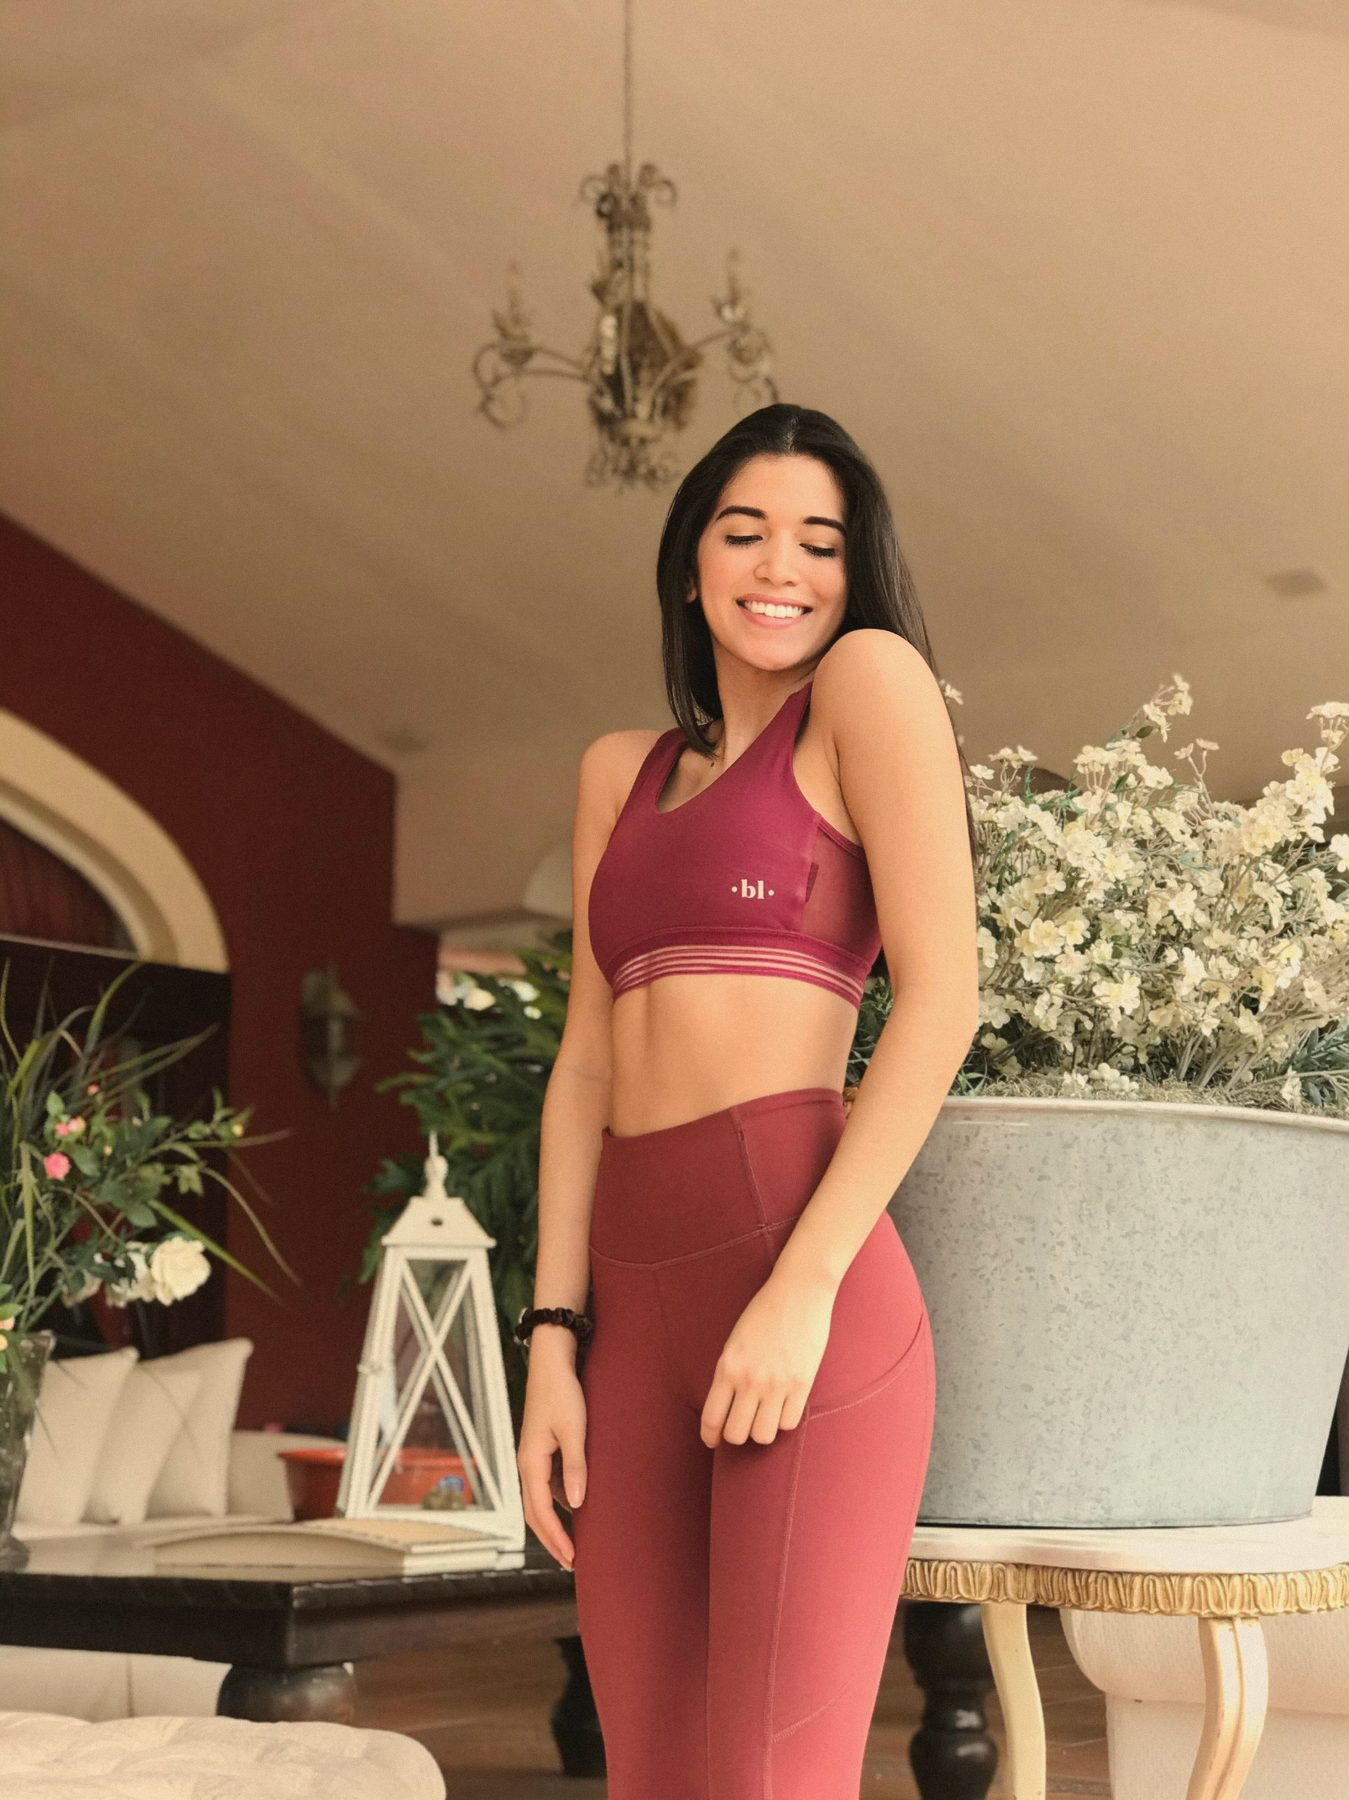
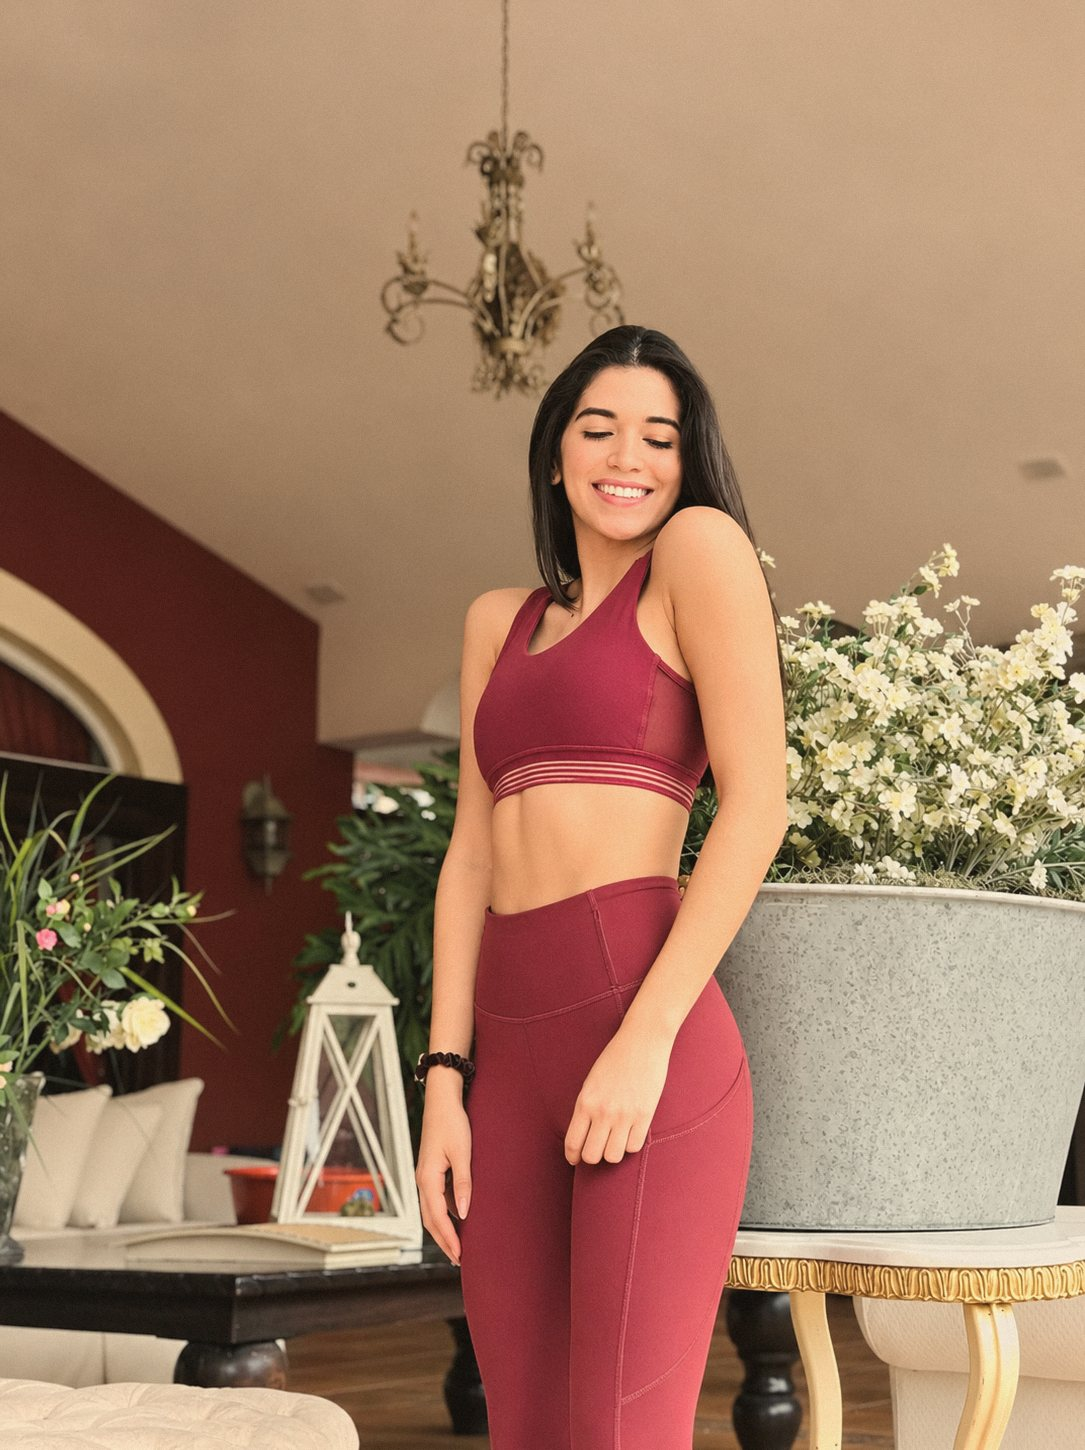
Swap homepage hero for retouched photo of Mafer
Claude-Session: https://claude.ai/code/session_01Q68BjWFDyDSHyHZgopsCK4

diff --git a/index.html b/index.html
@@ -24,7 +24,7 @@
 <header class="site-header" id="top"><div class="bar wrap"><a class="brand" href="#top" aria-label="AMURU, inicio"><img src="fotos/amuru-symbol.png" alt=""/><span>AMURU</span></a><nav class="nav" aria-label="Navegación principal"><a href="collection.html">Colección</a><a class="soc" href="https://www.tiktok.com/@mafervasquezz" target="_blank" rel="noopener noreferrer" aria-label="TikTok"><svg class="ico" viewBox="0 0 24 24" aria-hidden="true"><path d="M14.2 3.5v10.9a3.6 3.6 0 1 1-3.6-3.6" fill="none" stroke="currentColor" stroke-width="1.7" stroke-linecap="round" stroke-linejoin="round"/><path d="M14.2 3.5c.4 2.6 2.3 4.4 5 4.6" fill="none" stroke="currentColor" stroke-width="1.7" stroke-linecap="round"/></svg><span class="txt">TikTok</span></a><a class="soc" href="https://www.instagram.com/amuru.wellness/" target="_blank" rel="noopener noreferrer" aria-label="Instagram"><svg class="ico" viewBox="0 0 24 24" aria-hidden="true"><rect x="3.2" y="3.2" width="17.6" height="17.6" rx="5" fill="none" stroke="currentColor" stroke-width="1.6"/><circle cx="12" cy="12" r="4.1" fill="none" stroke="currentColor" stroke-width="1.6"/><circle cx="17.3" cy="6.7" r="1.1" fill="currentColor"/></svg><span class="txt">Instagram</span></a></nav><div class="lang" aria-label="Idioma"><a href="/" lang="es" hreflang="es" aria-current="true" title="Español">ES</a><span aria-hidden="true">/</span><a href="/en/" lang="en" hreflang="en" title="English">EN</a></div></div></header>
 <main>
 <section class="hero wrap">
-  <figure class="hero-photo"><img src="fotos/hero-mafer.jpg" alt="Mafer sonriendo con ropa deportiva color vino"/></figure>
+  <figure class="hero-photo"><img src="fotos/hero-mafer.jpg?v=2" alt="Mafer sonriendo con ropa deportiva color vino"/></figure>
   <div class="hero-copy">
     <p class="eyebrow">Yoga y movimiento · Honduras</p>
     <h1>Bienestar<br>con <em>Mafer.</em></h1>

diff --git a/en/index.html b/en/index.html
@@ -24,7 +24,7 @@
 <header class="site-header" id="top"><div class="bar wrap"><a class="brand" href="#top" aria-label="AMURU, home"><img src="../fotos/amuru-symbol.png" alt=""/><span>AMURU</span></a><nav class="nav" aria-label="Main navigation"><a href="collection.html">Collection</a><a class="soc" href="https://www.tiktok.com/@mafervasquezz" target="_blank" rel="noopener noreferrer" aria-label="TikTok"><svg class="ico" viewBox="0 0 24 24" aria-hidden="true"><path d="M14.2 3.5v10.9a3.6 3.6 0 1 1-3.6-3.6" fill="none" stroke="currentColor" stroke-width="1.7" stroke-linecap="round" stroke-linejoin="round"/><path d="M14.2 3.5c.4 2.6 2.3 4.4 5 4.6" fill="none" stroke="currentColor" stroke-width="1.7" stroke-linecap="round"/></svg><span class="txt">TikTok</span></a><a class="soc" href="https://www.instagram.com/amuru.wellness/" target="_blank" rel="noopener noreferrer" aria-label="Instagram"><svg class="ico" viewBox="0 0 24 24" aria-hidden="true"><rect x="3.2" y="3.2" width="17.6" height="17.6" rx="5" fill="none" stroke="currentColor" stroke-width="1.6"/><circle cx="12" cy="12" r="4.1" fill="none" stroke="currentColor" stroke-width="1.6"/><circle cx="17.3" cy="6.7" r="1.1" fill="currentColor"/></svg><span class="txt">Instagram</span></a></nav><div class="lang" aria-label="Language"><a href="/" lang="es" hreflang="es" title="Español">ES</a><span aria-hidden="true">/</span><a href="/en/" lang="en" hreflang="en" aria-current="true" title="English">EN</a></div></div></header>
 <main>
 <section class="hero wrap">
-  <figure class="hero-photo"><img src="../fotos/hero-mafer.jpg" alt="Mafer smiling in burgundy activewear"/></figure>
+  <figure class="hero-photo"><img src="../fotos/hero-mafer.jpg?v=2" alt="Mafer smiling in burgundy activewear"/></figure>
   <div class="hero-copy">
     <p class="eyebrow">Yoga &amp; Movement · Honduras</p>
     <h1>Wellness<br>with <em>Mafer.</em></h1>
